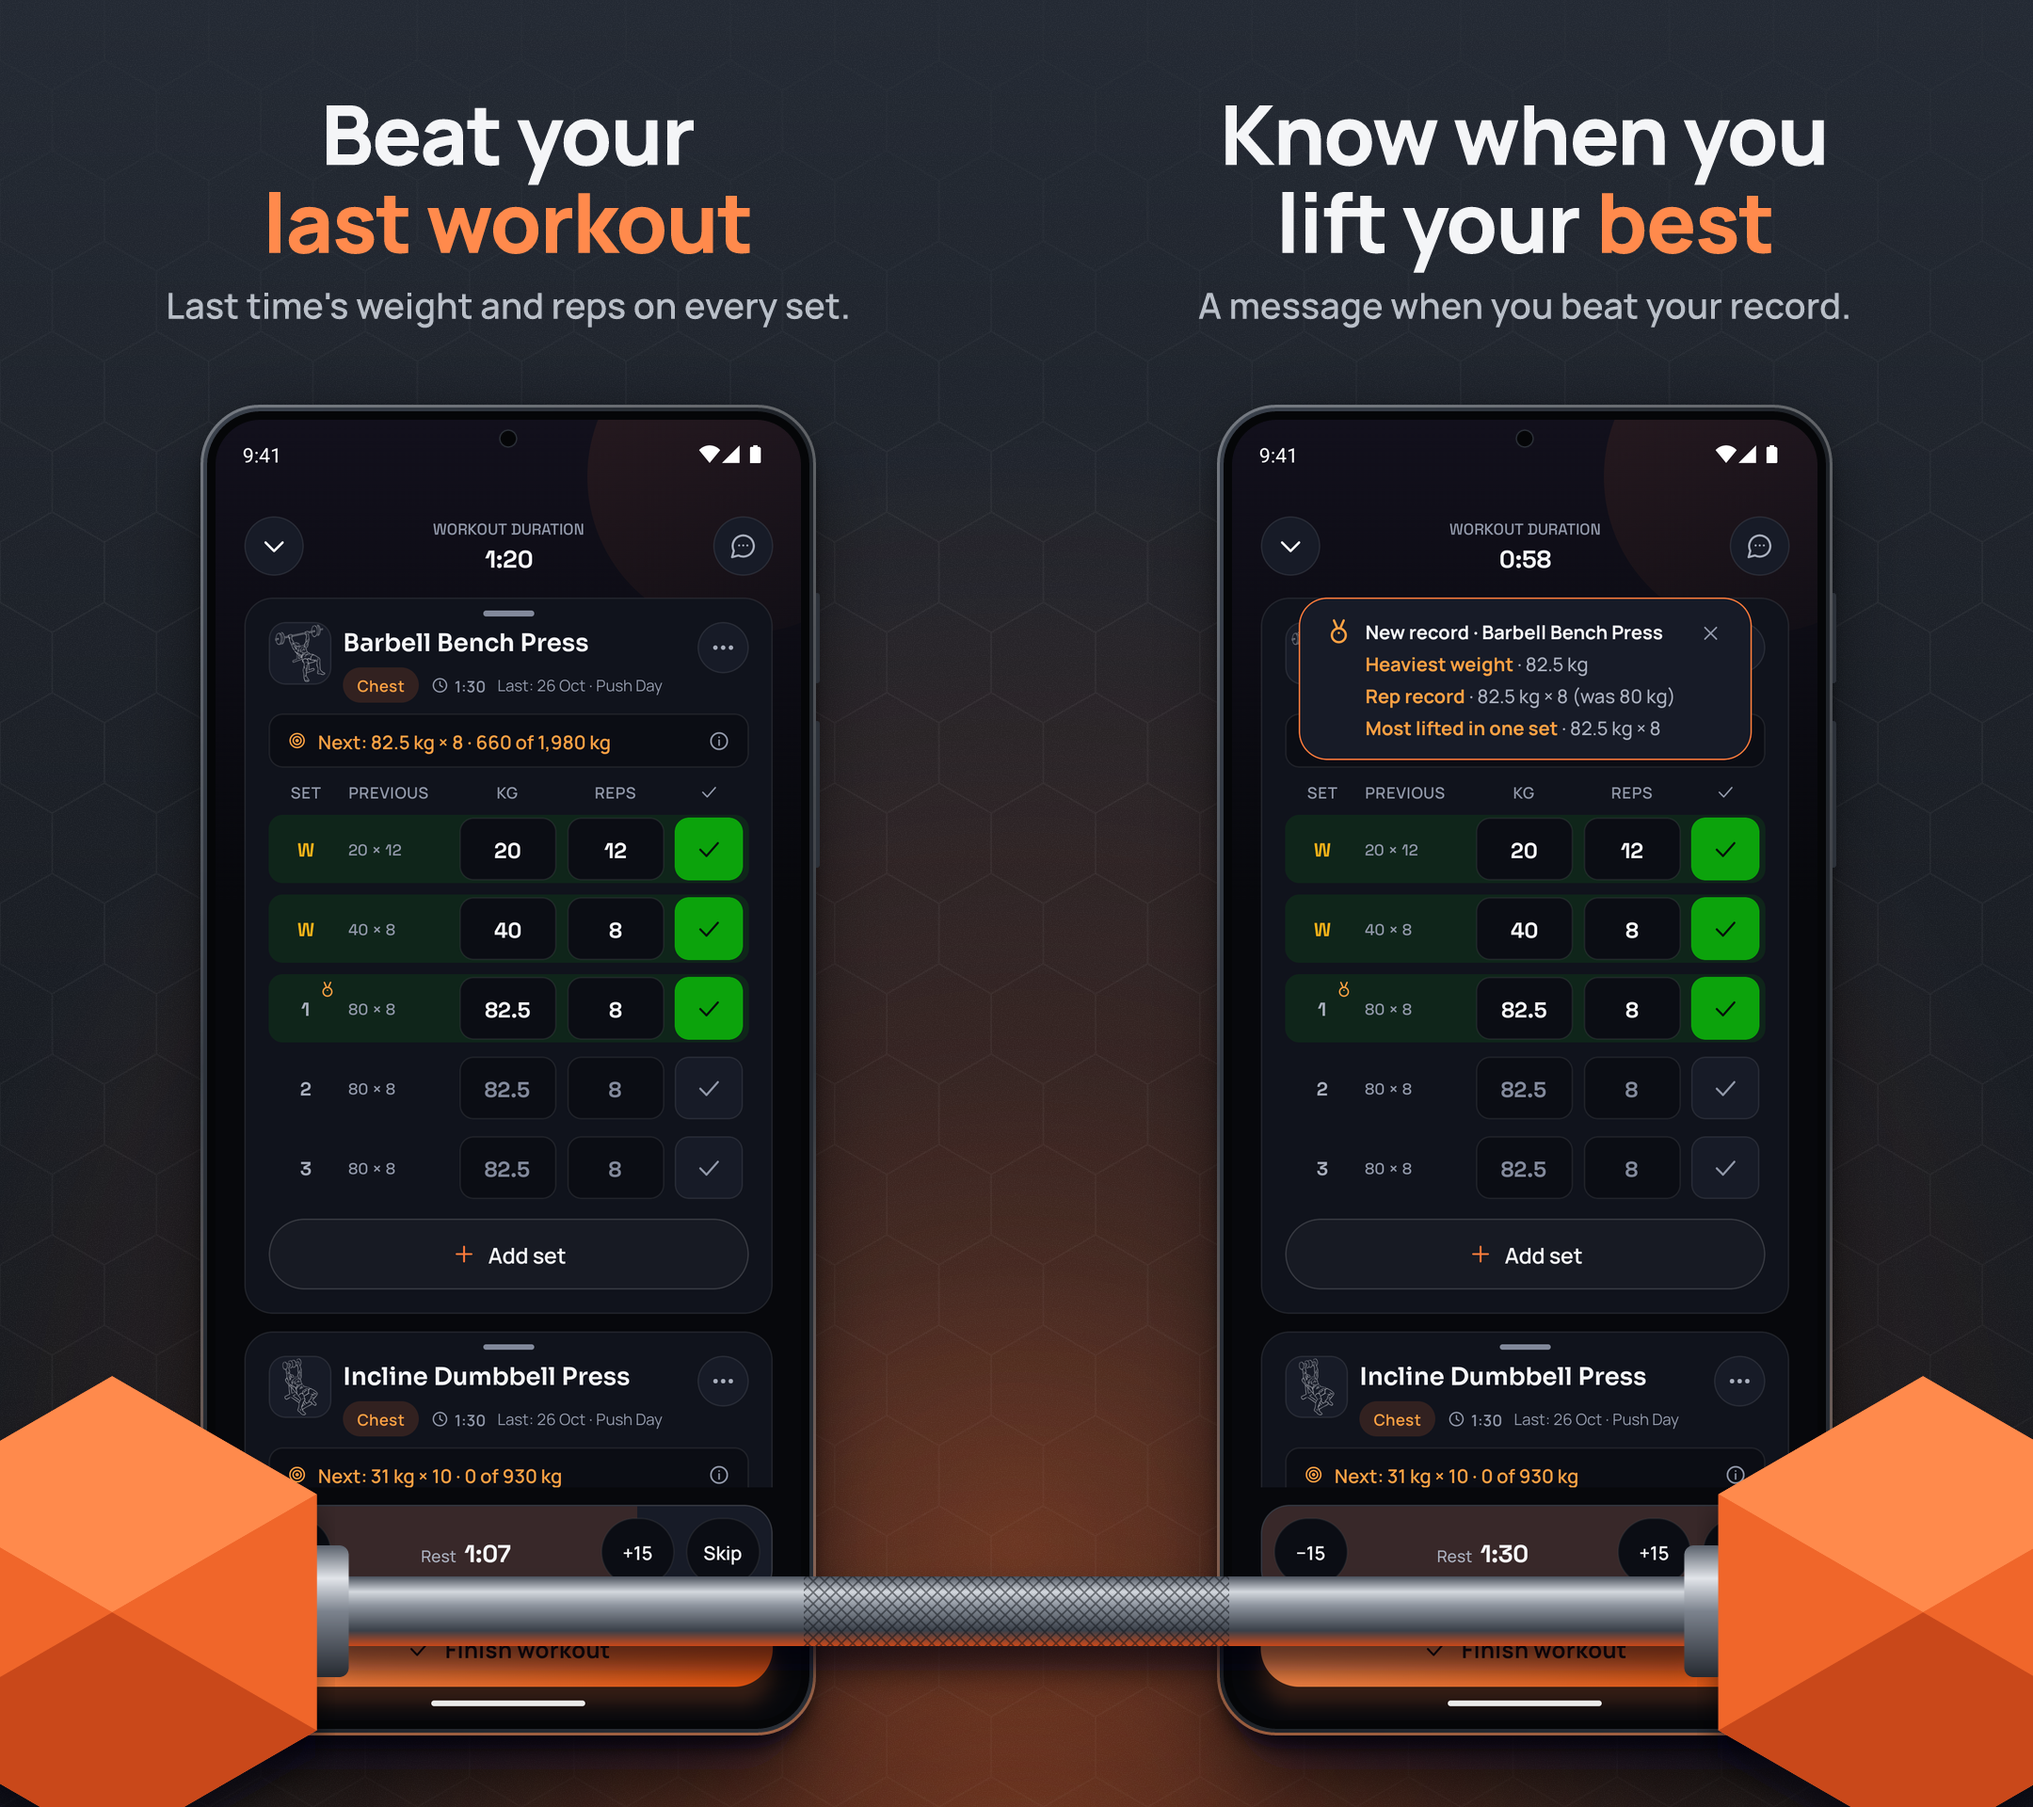
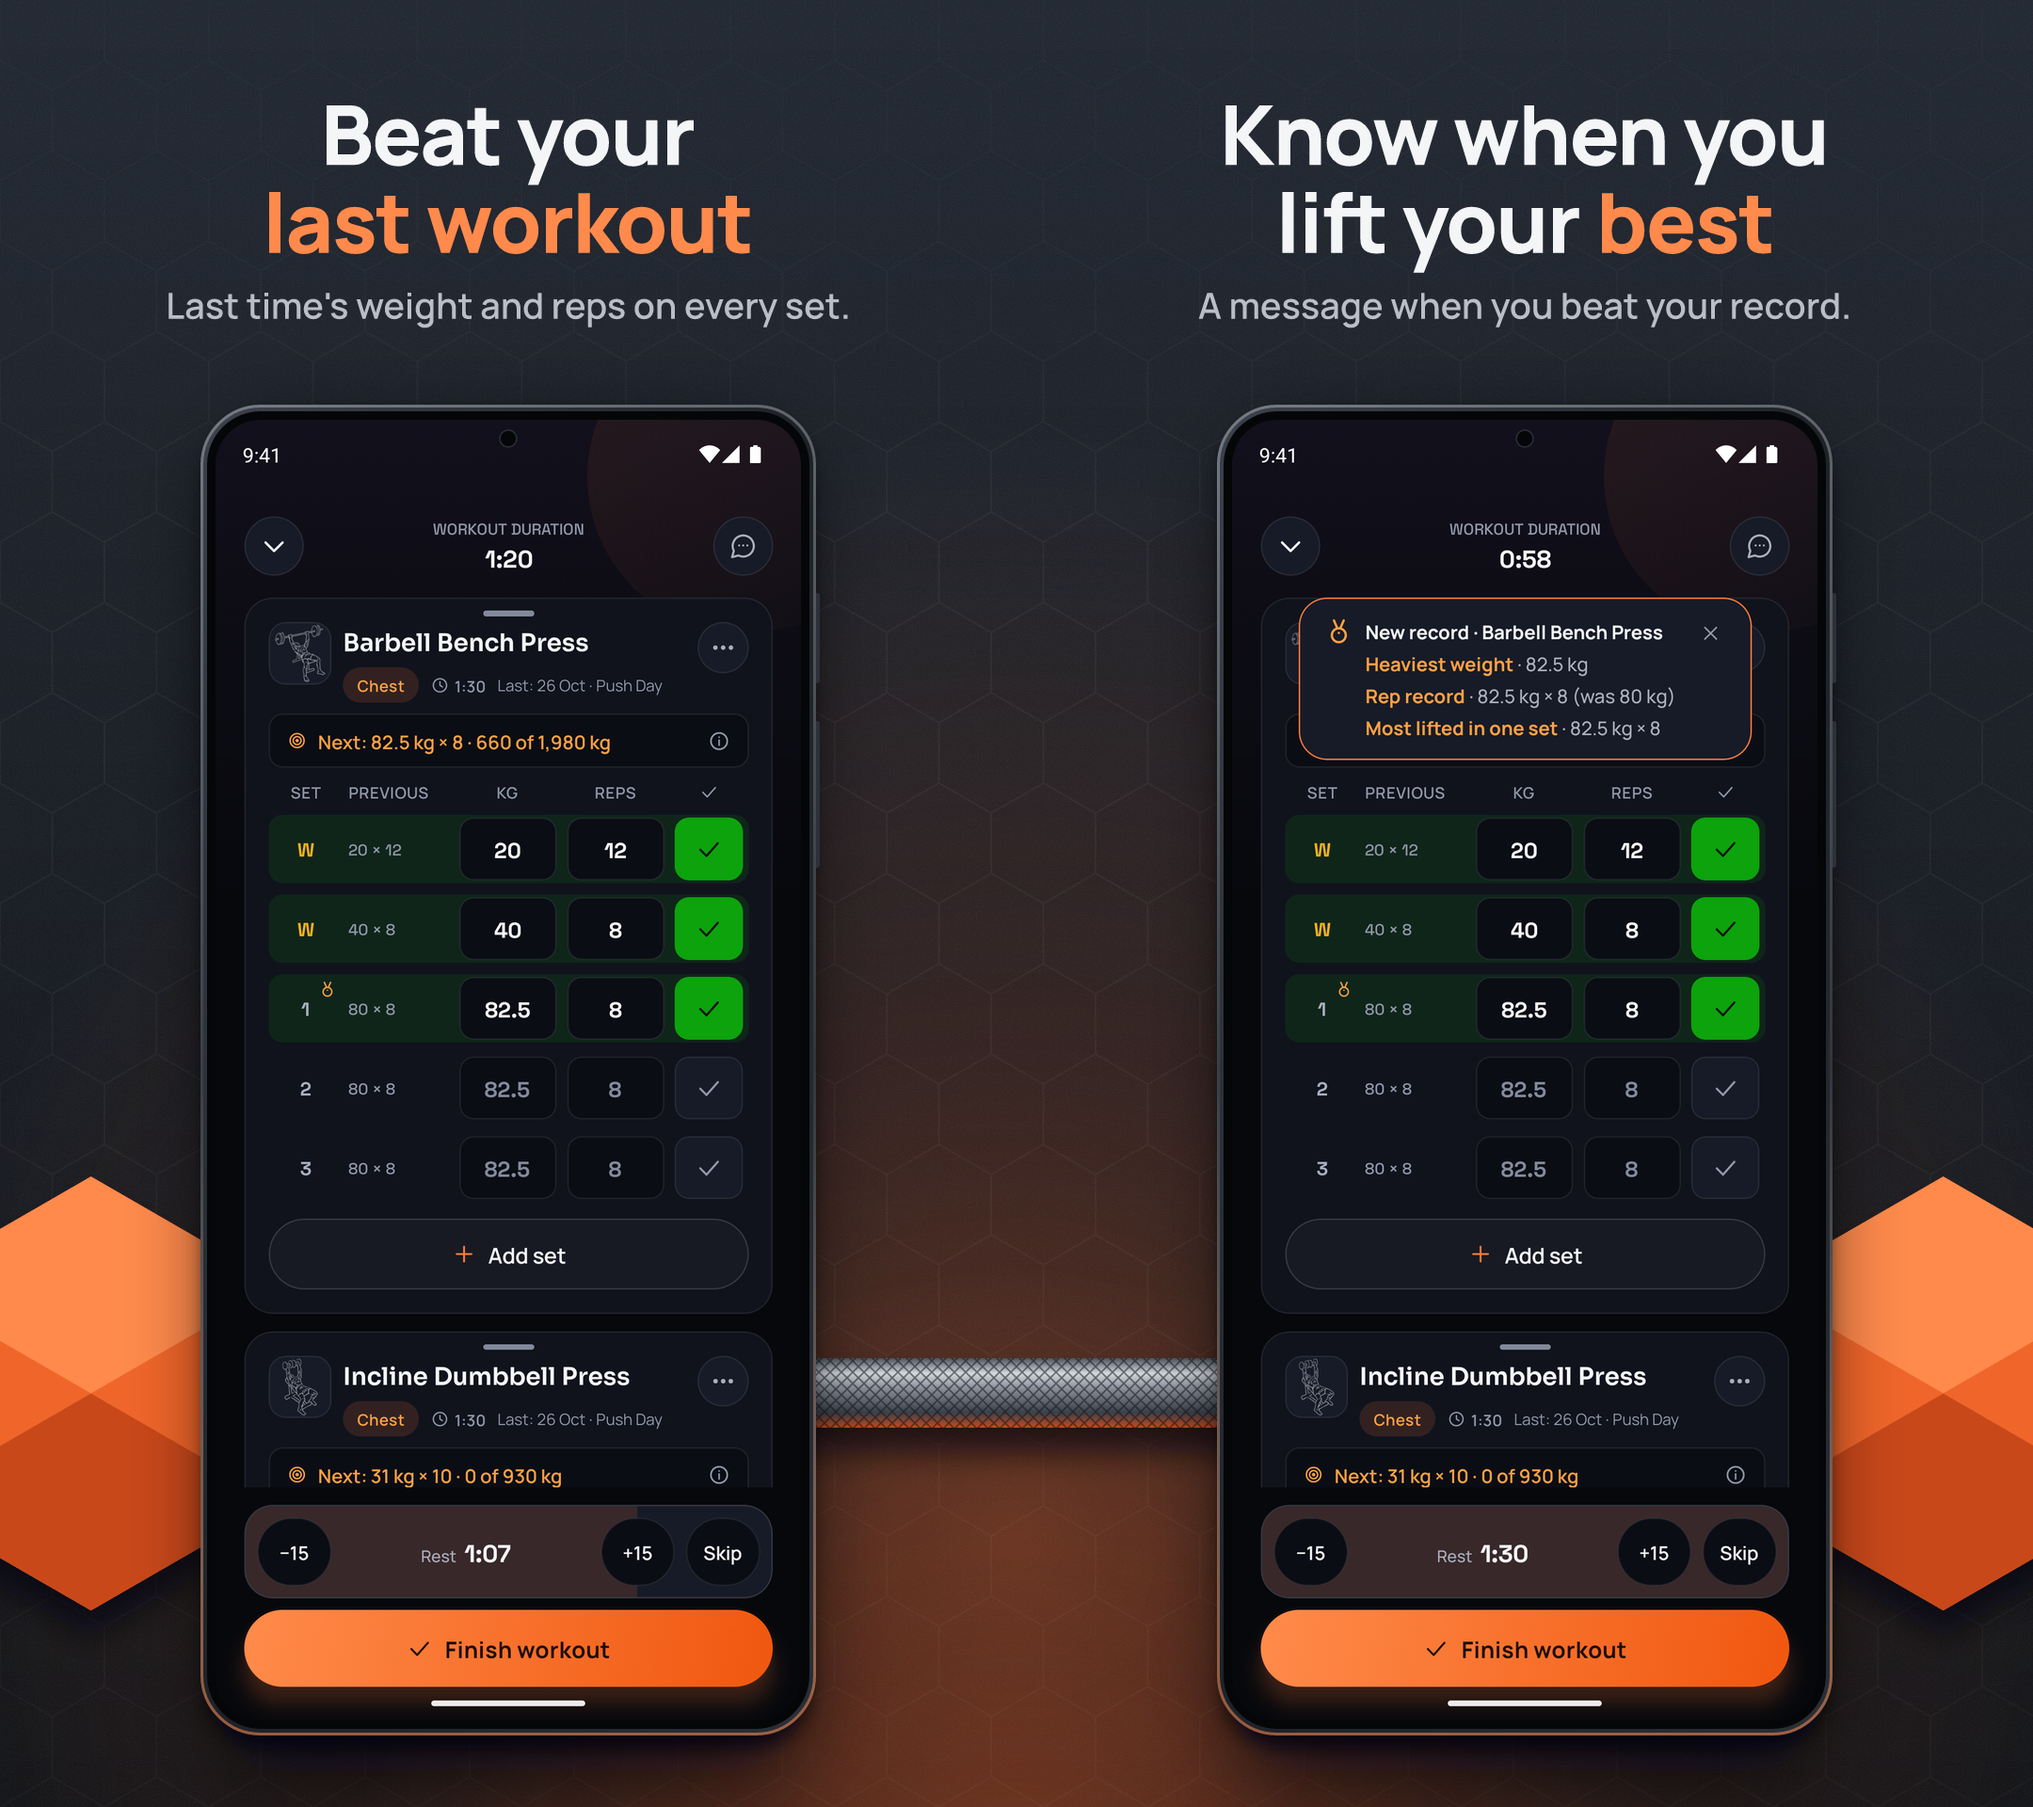
Play shots 1 and 2: barbell behind the phones (R-254)
The owner picked "barbell behind" from the R-253 sheet. captions.json gets
"panorama_prop": "bar-behind"; compose.py and make_assets.py pass it on.
shot-01/02 and the 2160 panorama re-composed; 3-8 unchanged (pixel-identical).
Play listing tests 38 OK. Not uploaded yet.

Changed region(s): [[0.0, 0.6562, 1.0, 1.0], [0.4032, 0.75, 0.6204, 0.8125]]

diff --git a/branding/mettleup/store/compose.py b/branding/mettleup/store/compose.py
@@ -10,7 +10,8 @@ Input
                    width, anchored to the top, and the bottom is cut by the canvas edge.
                    A missing one leaves the labelled "APP SCREEN n" slot in place.
   captions.json    headline (max 2 lines, "\\n" breaks, *word* = orange accent) + sub per shot,
-                   and which pair is the panorama.
+                   which pair is the panorama, and panorama_prop (R-253: dumbbell in front,
+                   bar-behind, rise or hex; the last three sit behind the phones).
 
 Output
   out/shot-NN.png  1080x1920, 24-bit PNG, no alpha, sRGB. Shots of the panorama pair are
@@ -37,7 +38,7 @@ def load_captions(path):
     pano = tuple(data.get('panorama') or ())
     if pano and (len(pano) != 2 or pano[1] != pano[0] + 1):
         raise SystemExit('panorama must be two neighbouring shots, e.g. [1, 2]')
-    return caps, pano
+    return caps, pano, data.get('panorama_prop', 'dumbbell')
 
 
 def find_raw(raw_dir, idx):
@@ -73,7 +74,7 @@ def fit_screen(path):
 
 
 def compose(captions_path, raw_dir, out_dir, quiet=False):
-    caps, pano = load_captions(captions_path)
+    caps, pano, prop = load_captions(captions_path)
     screens = {}
     for idx in caps:
         p = find_raw(raw_dir, idx) if raw_dir else None
@@ -87,7 +88,7 @@ def compose(captions_path, raw_dir, out_dir, quiet=False):
         if idx in done:
             continue
         if pano and idx == pano[0]:
-            svg, W = B.store_scene(list(pano), caps, screens, uid='p')
+            svg, W = B.store_scene(list(pano), caps, screens, uid='p', prop=prop)
             im = B.raster(svg, W, B.SHOT_H)
             for k, j in enumerate(pano):
                 part = im.crop((k * B.SHOT_W, 0, (k + 1) * B.SHOT_W, B.SHOT_H))

diff --git a/branding/mettleup/_src/make_assets.py b/branding/mettleup/_src/make_assets.py
@@ -250,8 +250,8 @@ def build_store(fast=False):
         out(p)
     out(os.path.join(tdir, 'panorama-01-02-2160.png'))
     # editable vector templates (placeholder slots), for anyone who prefers a vector editor
-    caps, pano = compose.load_captions(os.path.join(STORE, 'captions.json'))
-    svg, _ = B.store_scene(list(pano), caps, {}, uid='p')
+    caps, pano, prop = compose.load_captions(os.path.join(STORE, 'captions.json'))
+    svg, _ = B.store_scene(list(pano), caps, {}, uid='p', prop=prop)
     B.write(out(os.path.join(tdir, 'panorama-01-02.svg')), svg)
 
 

diff --git a/docs/CLAUDE-NOTES.md b/docs/CLAUDE-NOTES.md
@@ -7,6 +7,12 @@ backlog. Newest on top. Entries 3-21 were moved here from docs/OWNER-INBOX.md wi
 
 Older entries are moved automatically (scripts/trim_notes.py, newest 40 kept here) to docs/CLAUDE-NOTES-ARCHIVE.md: grep it before saying something was never said.
 
+## R-254. Play shots 1 and 2: use the barbell behind the phones — 31 Oct 2026
+
+He picked "Top-right, barbell behind" from the R-253 sheet.
+
+Did: captions.json "panorama_prop": "bar-behind"; compose.py passes it to store_scene; shot-01/02 and the 2160 panorama re-composed. Not uploaded (waits for his "upload").
+
 ## R-253. New ideas for the picture across Play shots 1 and 2: the barbell covers the screens — 31 Oct 2026
 
 He said: "Can you try some new ideas to do this continuous field thing? I mean this barbell is good enough but it's blocking some of the stuff right?"
